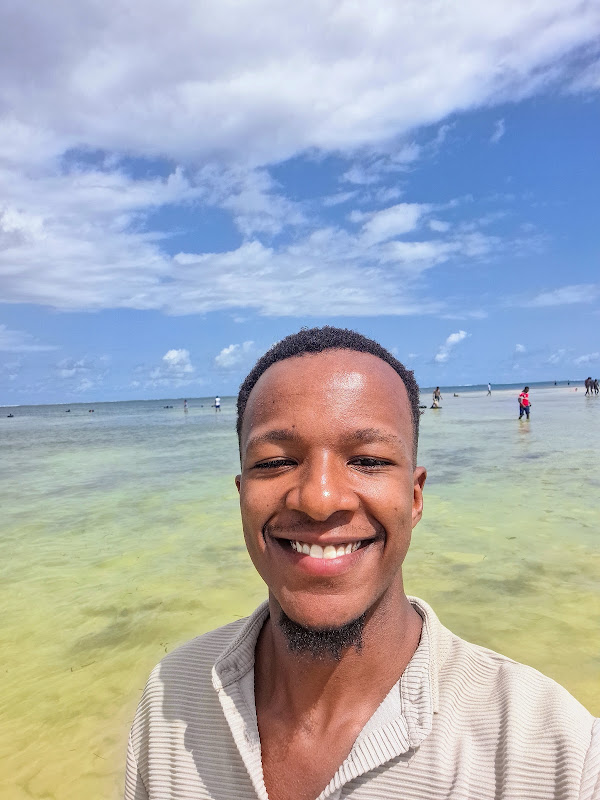
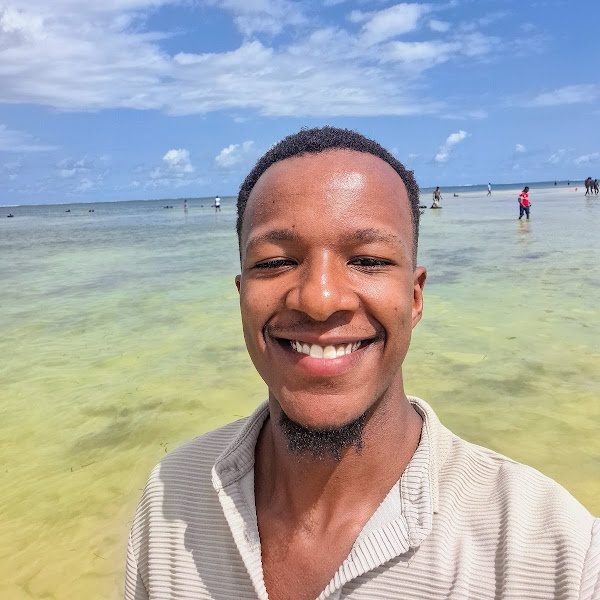
Center portrait crop on face and set object-position center center so face fits circle frame perfectly

diff --git a/index.html b/index.html
@@ -353,7 +353,7 @@
       width:100%;
       height:100%;
       object-fit:cover;
-      object-position:center 20%;
+      object-position:center center;
       border-radius:50%;
       display:block;
     }
